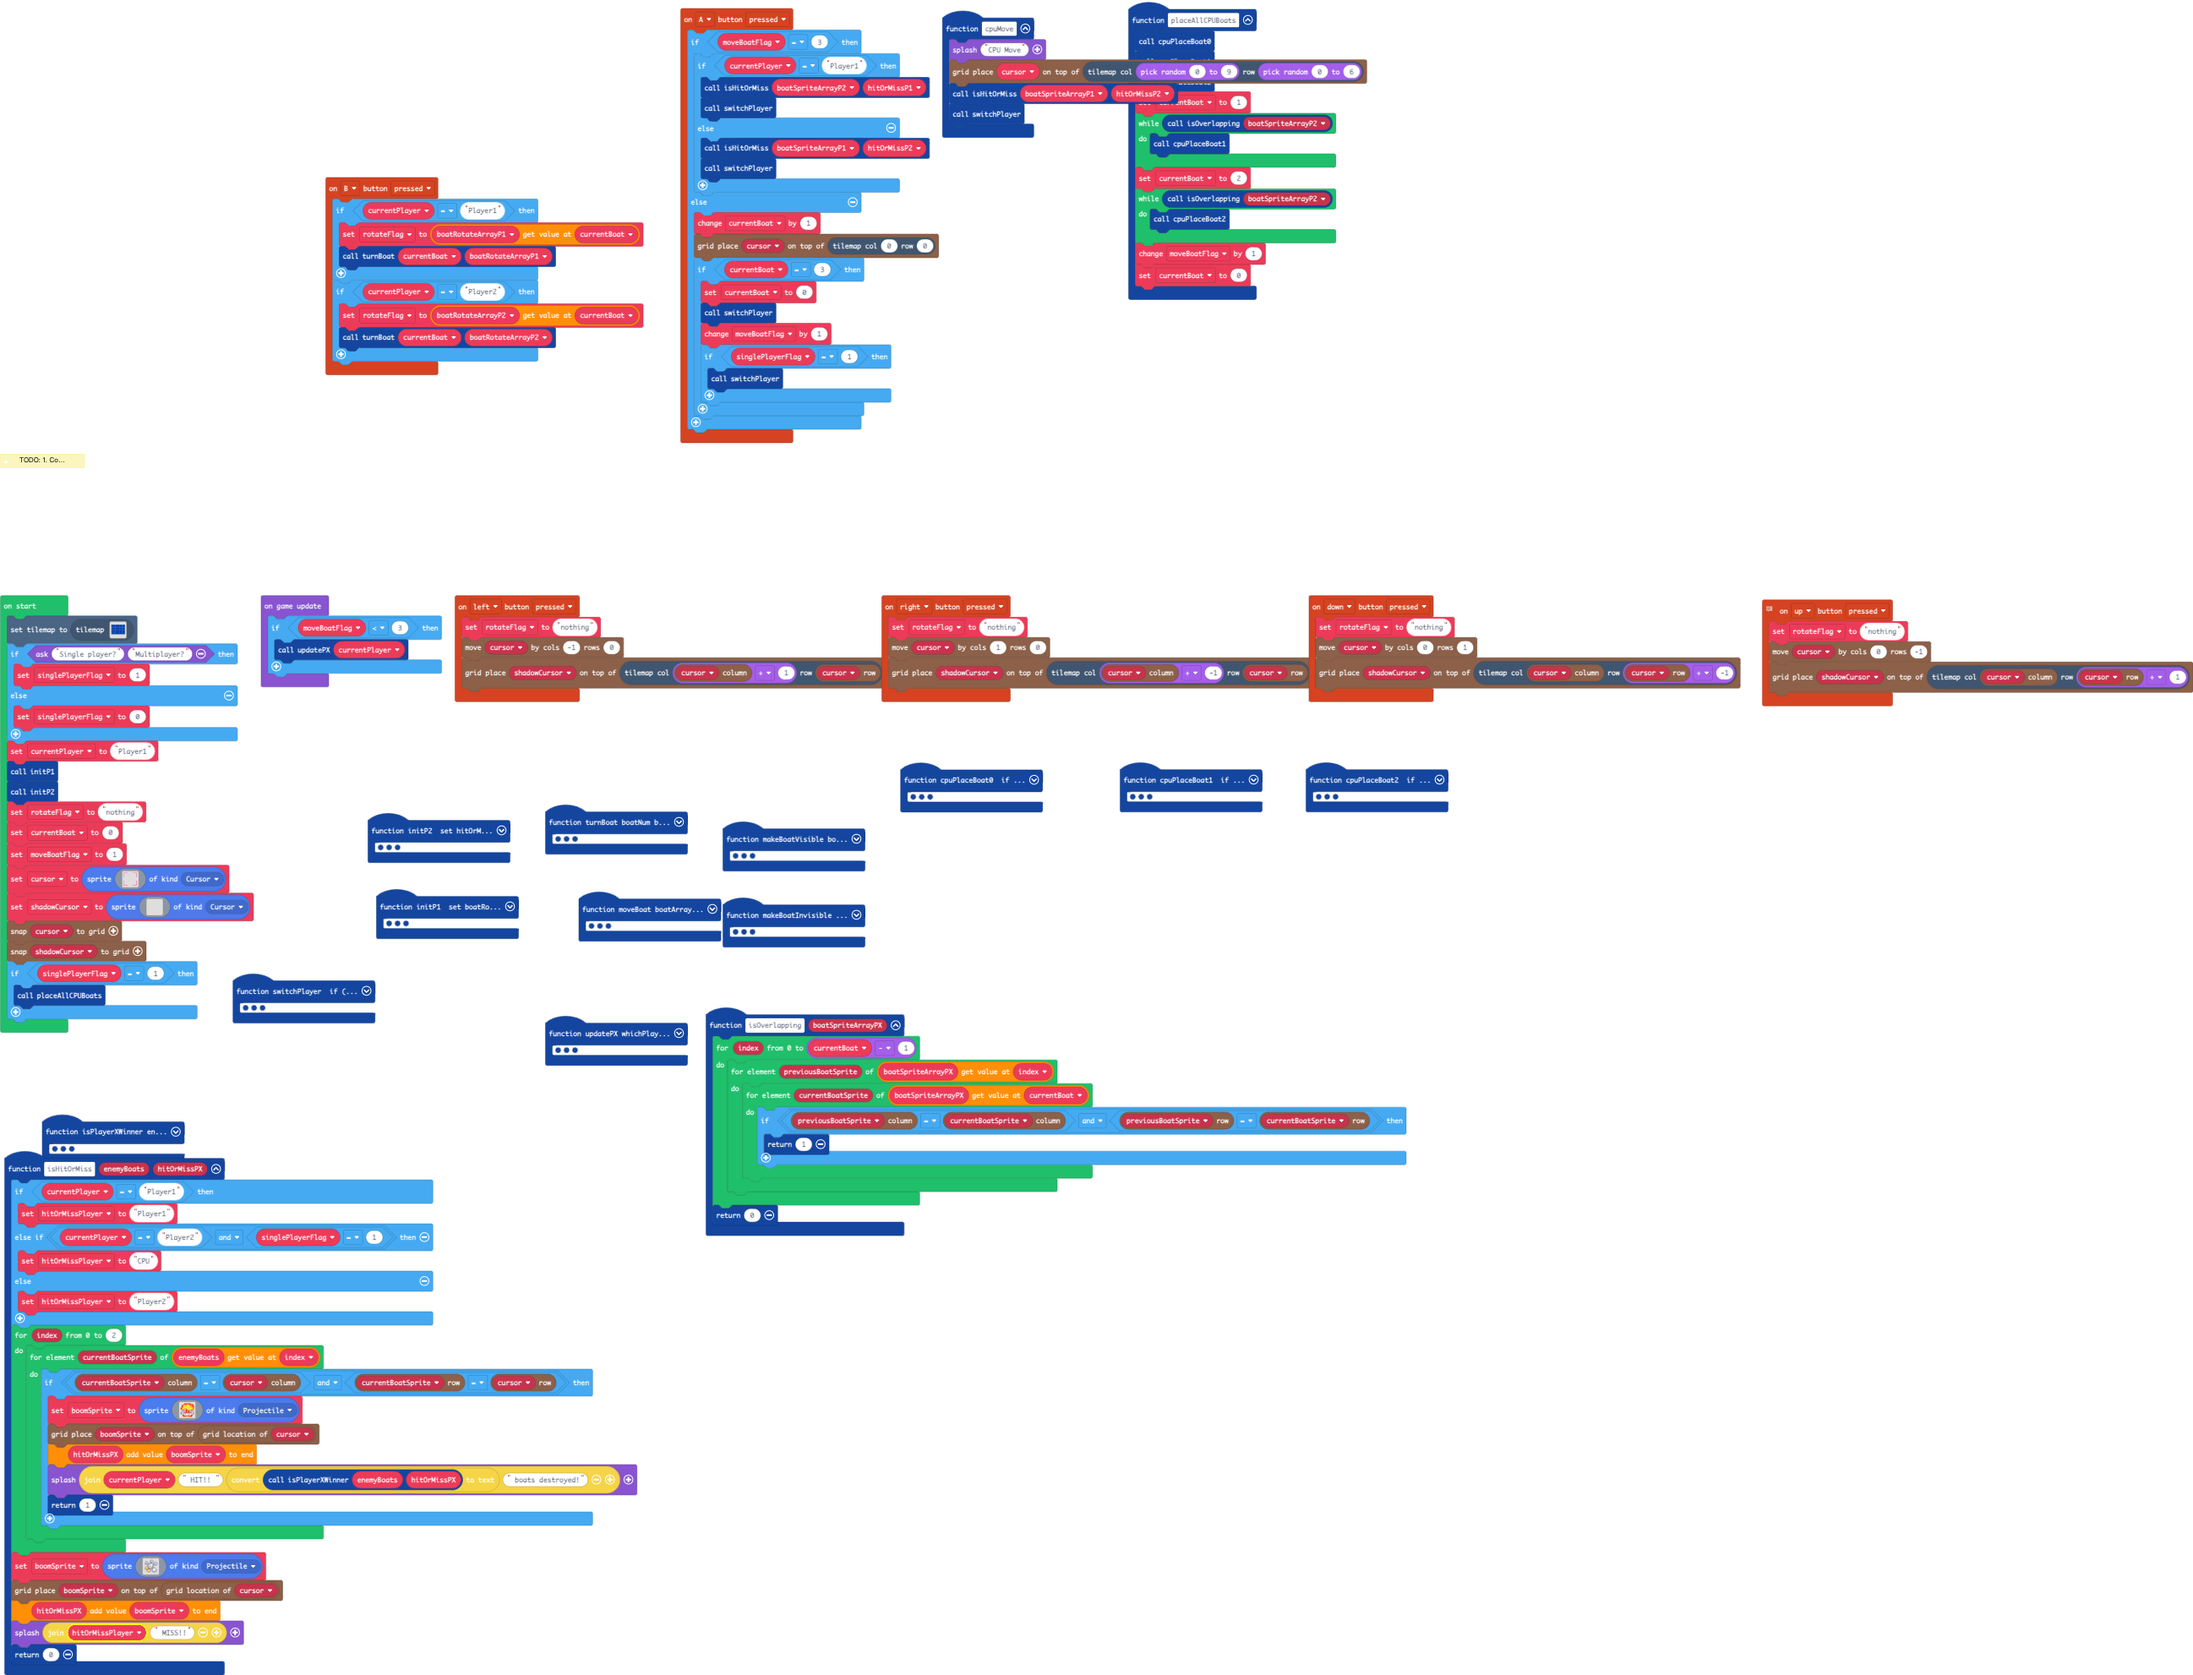
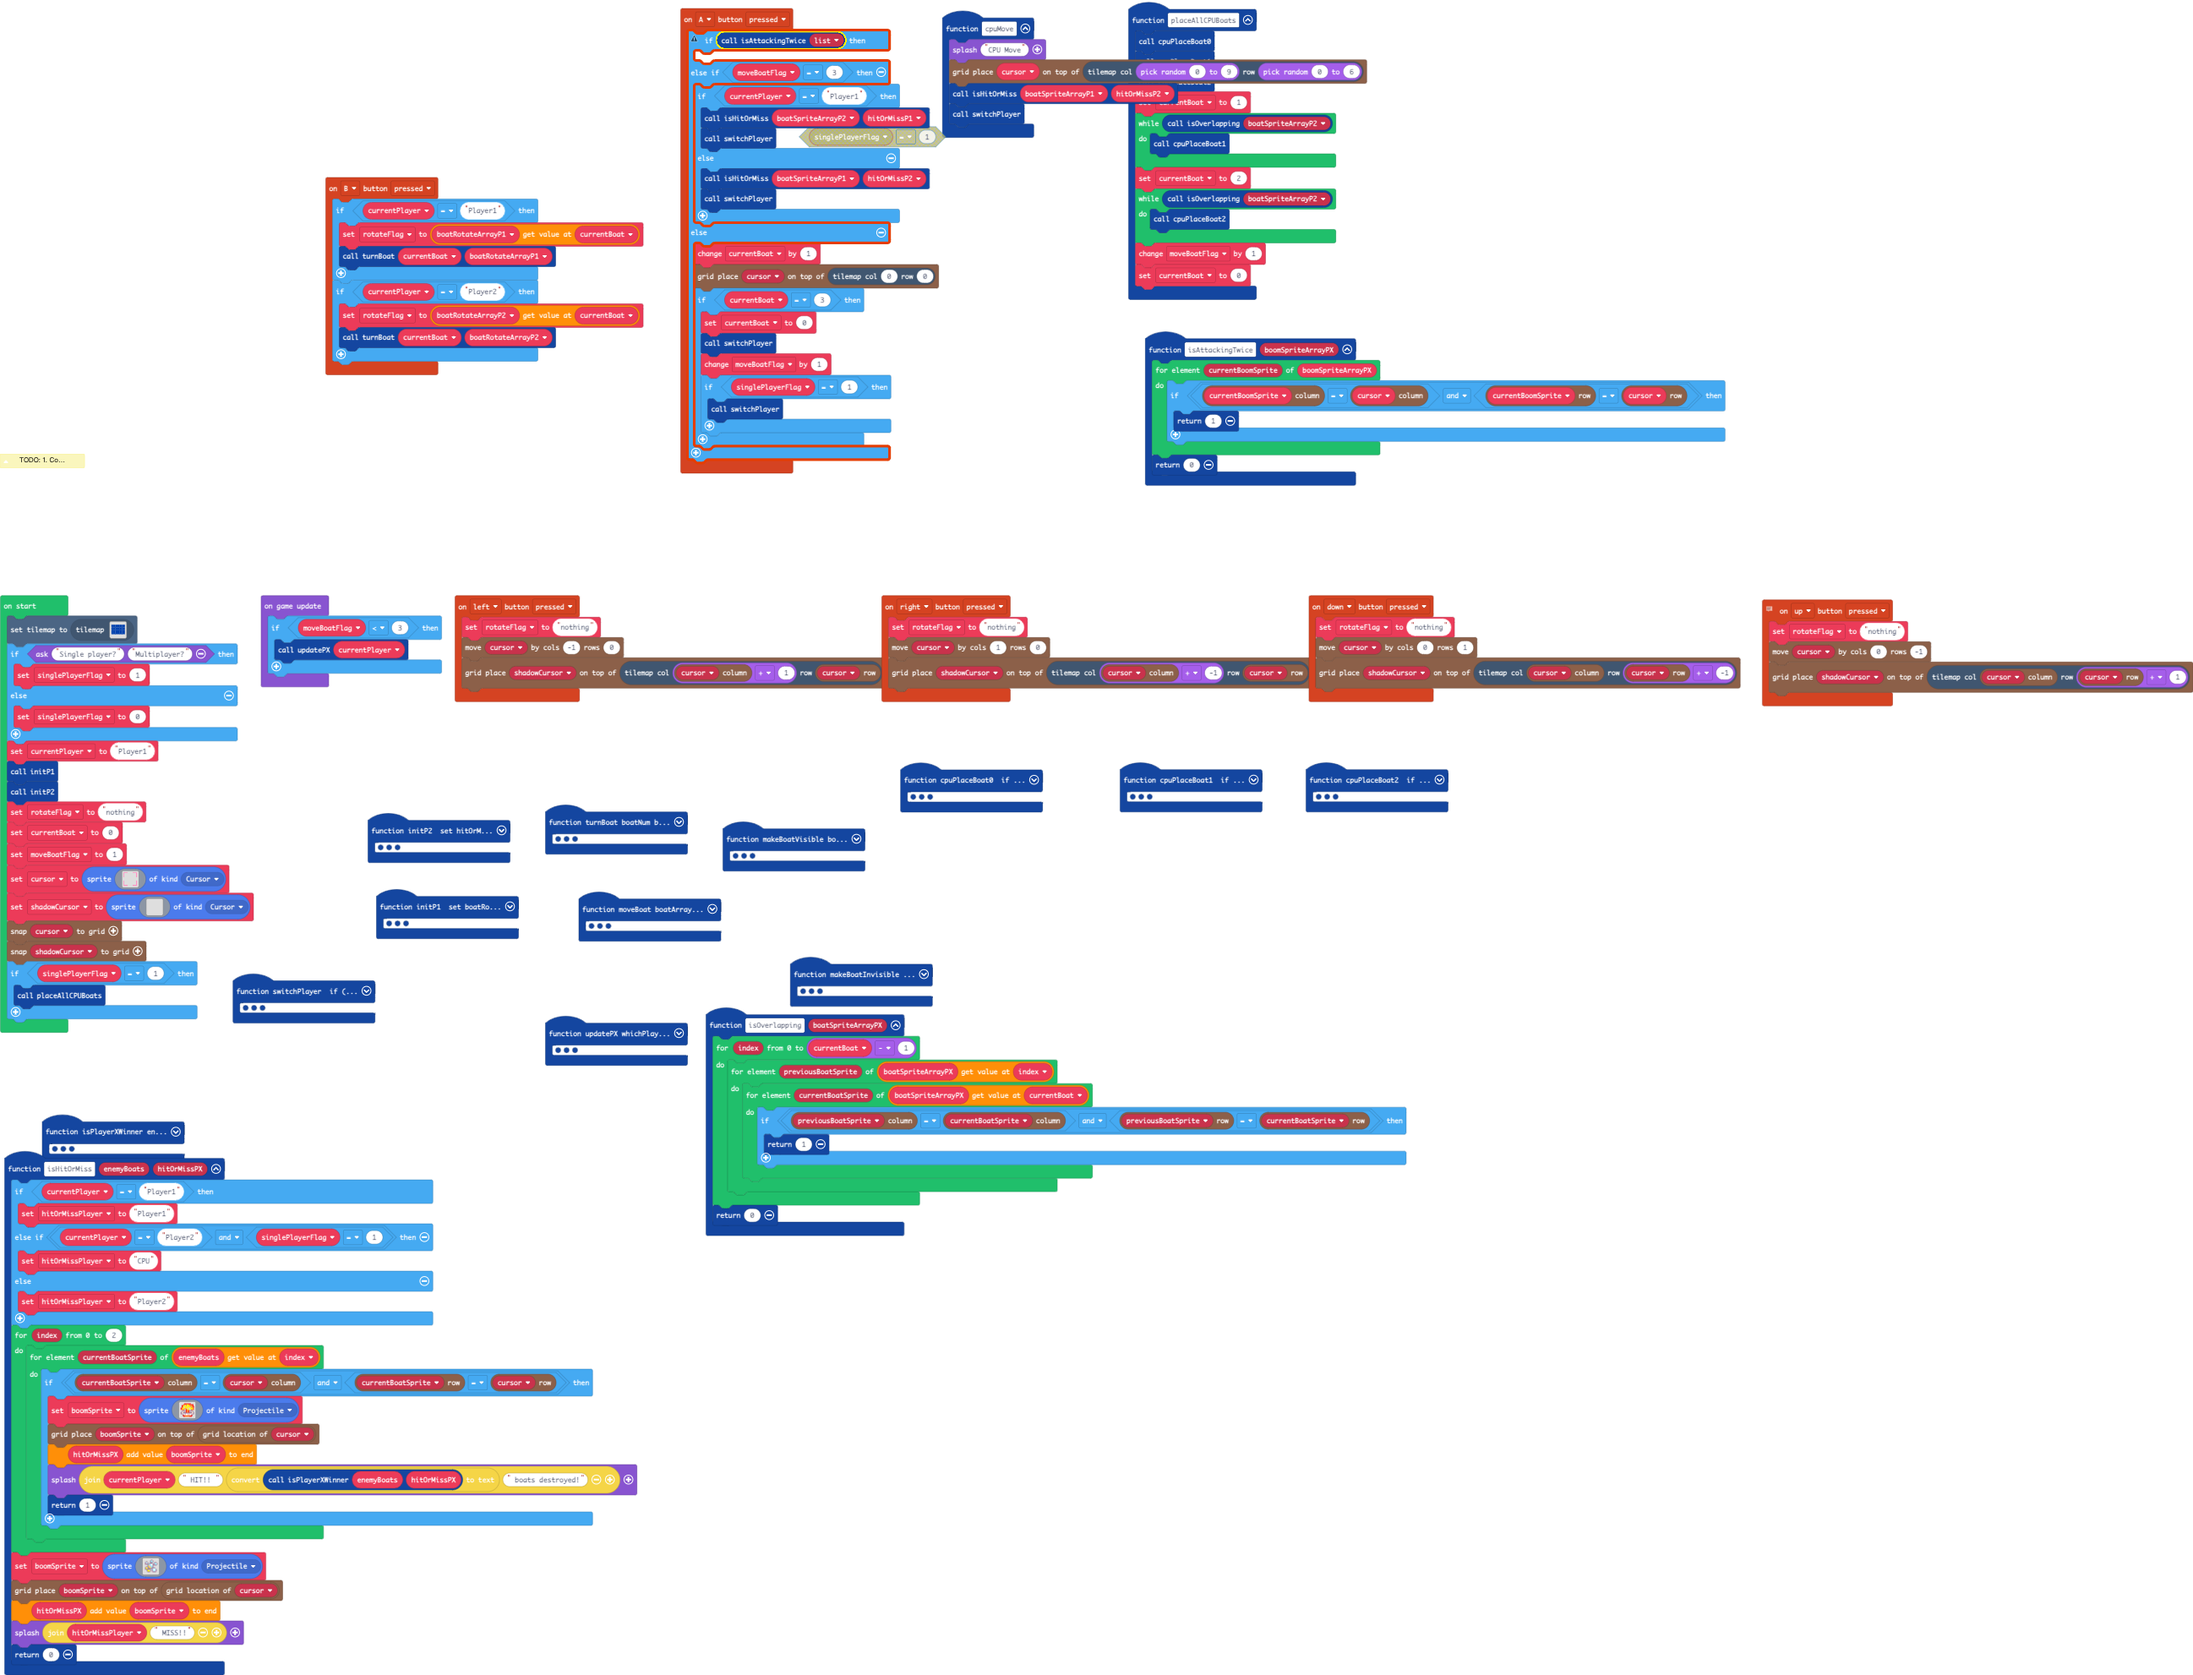
working on is attacking twice

Changed region(s): [[0.3121, 0.0, 0.437, 0.3078], [0.4994, 0.1847, 0.8116, 0.3078], [0.3121, 0.5232, 0.437, 0.6155]]

diff --git a/main.ts b/main.ts
@@ -97,7 +97,10 @@ function isPlayerXWinner (enemyBoats: Sprite[][], hitOrMissPX: Sprite[]) {
     return killCount
 }
 controller.A.onEvent(ControllerButtonEvent.Pressed, function () {
-    if (moveBoatFlag == 3) {
+    let list: number[] = []
+    if (isAttackingTwice(list)) {
+    	
+    } else if (moveBoatFlag == 3) {
         if (currentPlayer == "Player1") {
             isHitOrMiss(boatSpriteArrayP2, hitOrMissP1)
             switchPlayer()
@@ -448,6 +451,14 @@ function cpuPlaceBoat1 () {
         grid.place(boatSpriteArrayP2[1][1], grid.add(grid.getLocation(cursor), 0, 1))
         grid.place(boatSpriteArrayP2[1][2], grid.add(grid.getLocation(cursor), 0, 2))
     }
+}
+function isAttackingTwice (boomSpriteArrayPX: Sprite[]) {
+    for (let currentBoomSprite of boomSpriteArrayPX) {
+        if (grid.spriteCol(currentBoomSprite) == grid.spriteCol(cursor) && grid.spriteRow(currentBoomSprite) == grid.spriteRow(cursor)) {
+            return 1
+        }
+    }
+    return 0
 }
 function initP2 () {
     hitOrMissP2 = [sprites.create(img`
